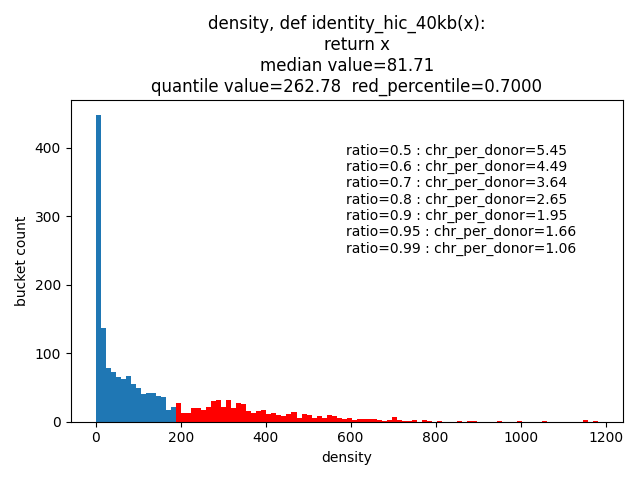
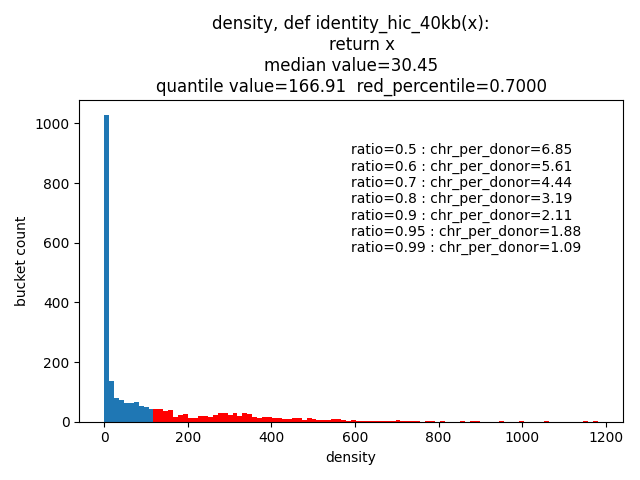
best params kmeans + chromo ids

diff --git a/DonorAnalyzer.py b/DonorAnalyzer.py
@@ -10,7 +10,7 @@ import sys
 
 from DenseUtils import heatmap_with_breakpoints_and_cluster, create_path_if_not_exist, plot_distribution, perf_measure, \
     plot_seek_distibution, plot_seek_compare, plot_sustainability, div_with_none, filter_nones, plot_mixed_denss, \
-    find_first_predicate_index
+    find_first_predicate_index, kmeans_plot
 from DonorRepository import DonorRepository
 from DonorService import collect_chr_bins_map_with_resolution, bps_to_bins_with_resolution, filter_svs_with_resolution, \
     filter_chr_svs_with_resolution
@@ -339,6 +339,7 @@ def hist_patients(f_id, ratio, dens_plot=True, cluster_plot=True, periphery_plot
             plot_distribution(denss, dens_path, code, 'density', 'density', ratio, buckets_cnt, text=text_ratios_map)
         thresholds_paths = f'distribution/thresholds/{f_id}.png'
         thresholds = plot_mixed_denss(sorted(denss), to_plot=types5plot, save_path=thresholds_paths)
+        THRESHOLD_DENSE = kmeans_plot(sorted(denss))
 
         cluster_path = f'distribution/clusters/{f_id}.png'
         if cluster_plot:
@@ -357,7 +358,7 @@ def hist_patients(f_id, ratio, dens_plot=True, cluster_plot=True, periphery_plot
 
     t2 = time.time()
     # print(f'plots took {t2 - t1} sec')
-    return infoids_sorted_by_dens, sorted(denss), infoids_after_ratio, thresholds
+    return infoids_sorted_by_dens, sorted(denss), infoids_after_ratio, thresholds, THRESHOLD_DENSE
 
 
 def chrs_per_donor_summary(infoids_sorted_by_dens, ratios):
@@ -488,17 +489,17 @@ def measure_chromos(chromo_clusters):
 def all_hists(ratio):
     iss = [3, 4]
     # for i in range(1, 4):
-    threshold_hic_dens = 200
+    threshold_hic_dens = 220.50214
     # threshold_hic_dens = 2.7495356
     for i in iss:
-        all_infoids_by_denss, sorted_denss, infoids_after_ratios, thresholds = hist_patients(i, ratio=ratio,
+        all_infoids_by_denss, sorted_denss, infoids_after_ratios, thresholds, THRESHOLD_DENSE = hist_patients(i, ratio=ratio,
                                                                                              dens_plot=True,
                                                                                              seek_plot=False,
                                                                                              periphery_plot=False,
                                                                                              cluster_plot=False,
                                                                                              cluster_threshold_sz=0,
-                                                                                             dens_threshold=0.000001,
-                                                                                             types5plot=True)
+                                                                                             dens_threshold=0.00000,
+                                                                                             types5plot=False)
         densss = sorted_denss[int(ratio * len(sorted_denss))]
         print(densss)
         index_ = find_first_predicate_index(sorted_denss, lambda d: d > threshold_hic_dens)

diff --git a/DenseUtils.py b/DenseUtils.py
@@ -9,6 +9,7 @@ import numpy as np
 import inspect
 
 from matplotlib import rcParams
+from sklearn.cluster import KMeans
 from sklearn.mixture import GaussianMixture
 
 from DonorRepository import DonorRepository
@@ -105,6 +106,15 @@ def plot_seek_distibution(top_ratio_infos_sorted_by_dens, buckets_cnt, rep: Dono
     create_path_if_not_exist(store_path)
     plt.savefig(store_path)
     plt.show()
+
+
+def kmeans_plot(denss):
+    km = KMeans(n_clusters=2)
+    km.fit(np.array(denss).reshape(-1, 1))
+    index = find_first_predicate_index(km.labels_, lambda x: x == 1)
+    print(f'threshold dense {denss[index]}')
+    return denss[index]
+
 
 def plot_mixed_denss(denss, to_plot, save_path):
     i_denss = list(enumerate(denss))
